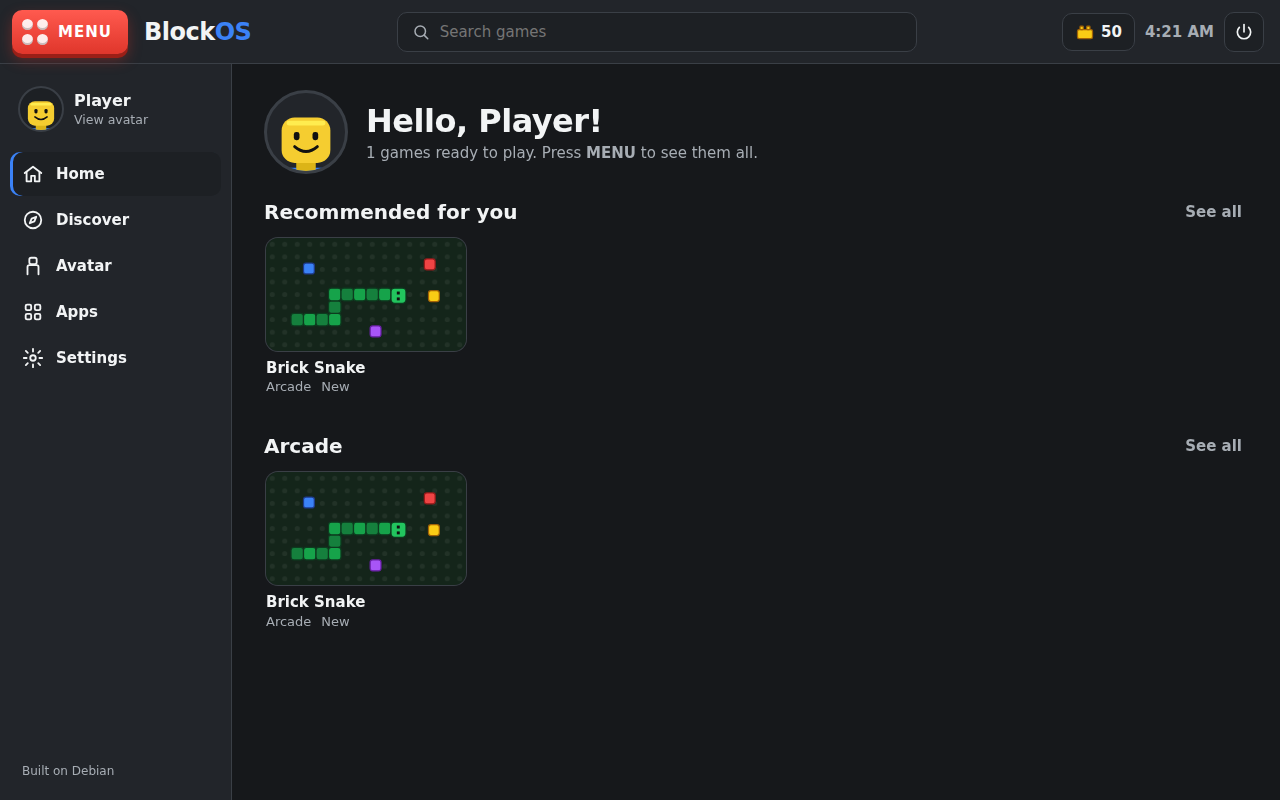
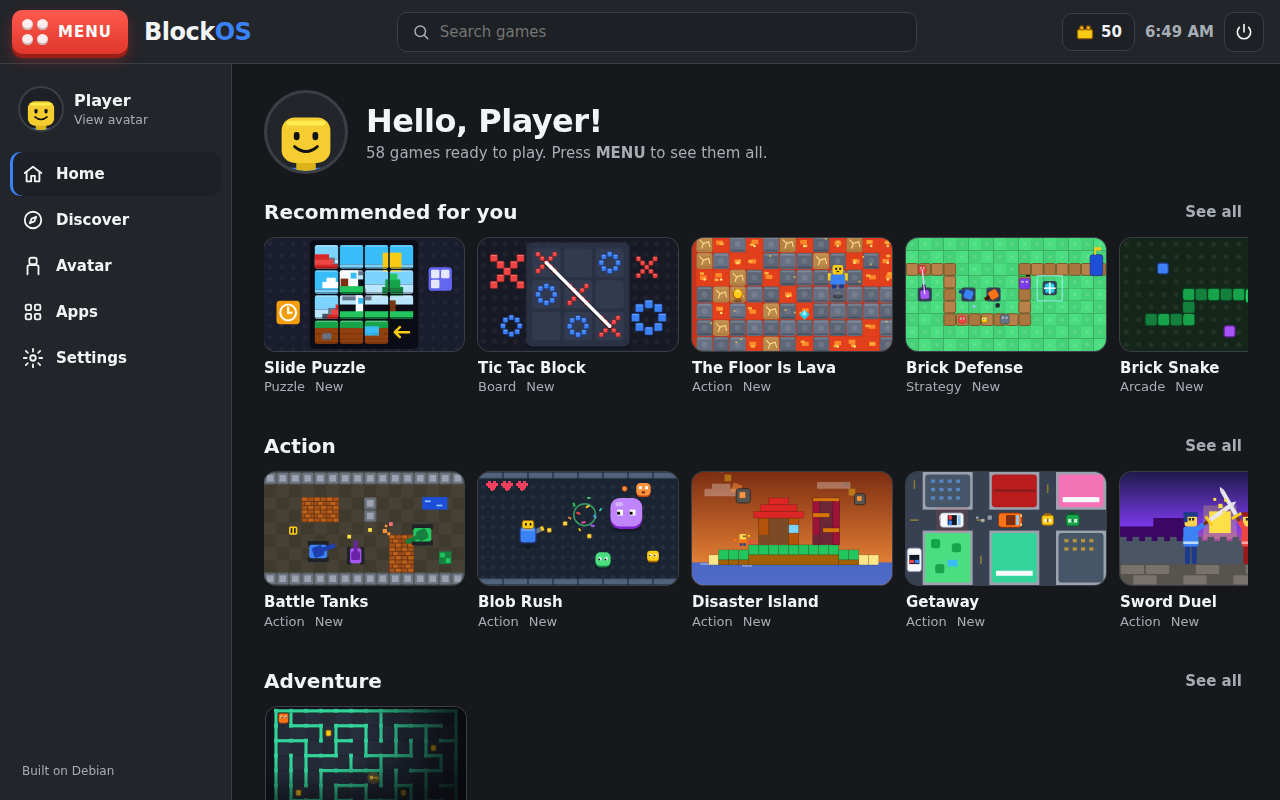
Finish the BlockOS game library: 58 games
Adds the experience and arcade batch (Disaster Island, Tower Climb, Mining
Sim, Pet Hatchery, Getaway, Brick Defense, Sky Jumper, Ninja Run, Cave
Copter, Road Hopper). All 58 games load and respond to input without errors
in a scripted check. The README lists them by genre and its screenshots
show the full library.

Claude-Session: https://claude.ai/code/session_019XLtpXnqnpapxGsB4TwsEd

diff --git a/blockos/README.md b/blockos/README.md
@@ -18,7 +18,7 @@ into categories, plus favorites, recently played, apps, and the power buttons.
 | Part | Where | What it does |
 | --- | --- | --- |
 | Desktop shell | `shell/` | The BlockOS desktop: Home, Discover, Avatar (with a shop), Apps, Settings, the Game Menu and the in-game menu. Plain HTML/CSS/JS, works offline. |
-| Games | `shell/games/` | 20 original games (list below). Each one is a folder with `index.html` and `thumb.svg`. |
+| Games | `shell/games/` | 58 original games (list below). Each one is a folder with `index.html` and `thumb.svg`. |
 | Shell server | `shell/server.py` | Serves the desktop on `127.0.0.1:8737` and lets it open real Linux apps (Terminal, Files, Web Browser, Text Editor, Task Manager, Calculator) and shut down or restart. Only allowlisted commands can run. |
 | Session | `system/blockos-session` | Starts Openbox, the shell server, and Chromium in full-screen kiosk mode showing the desktop. |
 | Installer | `system/install.sh` | Turns a plain Debian 12 or 13 install into BlockOS: installs packages, sets up auto-login, adds boot-menu branding. |
@@ -110,9 +110,22 @@ and please report the error.
 
 ## Games
 
-| Game | Genre |
+58 original games, sorted by genre in the Game Menu.
+
+| Genre | Games |
 | --- | --- |
-| Brick Snake | Arcade |
+| **Action** | Battle Tanks, Blob Rush, Disaster Island, Getaway, Sword Duel, The Floor Is Lava |
+| **Adventure** | Maze Escape |
+| **Arcade** | Bonk-a-Block, Brick Breaker, Brick Pinball, Brick Snake, Cave Copter, Flap Block, Ninja Run, Rhythm Tap, Road Hopper, Sky Jumper, Space Blaster, Tower Stack |
+| **Board** | Checkers, Dots and Boxes, Four in a Row, Reversi, Tic Tac Block |
+| **Card** | Solitaire |
+| **Obby** | Obby Run, Tower Climb |
+| **Puzzle** | Block Drop, Brick 2048, Bubble Pop, Color Echo, Color Sort, Gem Bricks, Lights Out, Math Blitz, Memory Bricks, Mine Sweep, Pipe Connect, Pixel Logic, Slide Puzzle, Sudoku Blocks |
+| **Racing** | Kart Dash, Turbo Lanes, Typing Racer |
+| **Simulator** | Brick Tycoon, Fishing Frenzy, Mining Sim, Pet Hatchery, Pizza Shop |
+| **Sports** | Air Hockey, Basket Toss, Block Bowling, Block Golf, Paddle Clash, Penalty Kick |
+| **Strategy** | Brick Defense |
+| **Word** | Word Bricks, Word Search |
 
 ## Add your own game
 
@@ -120,7 +133,7 @@ and please report the error.
    as a starting point. It uses the shared helpers in `shell/games/kit.js` (canvas setup, keyboard,
    game loop, start/game-over screens, sounds, best scores), which are documented at the top of that file.
 2. Add a `thumb.svg` (480 x 270) for the game card.
-3. Add an entry to `shell/games/catalog.js`.
+3. Add a `meta.json` (copy brick-snake's) and run `python3 blockos/tools/gen-catalog.py` to rebuild `shell/games/catalog.js`.
 4. Call `Kit.finish("my-game", score)` when a round ends so the player earns Bricks.
 
 On an installed system, copy the changed `shell/` folder to `/opt/blockos/shell`, or simply run
